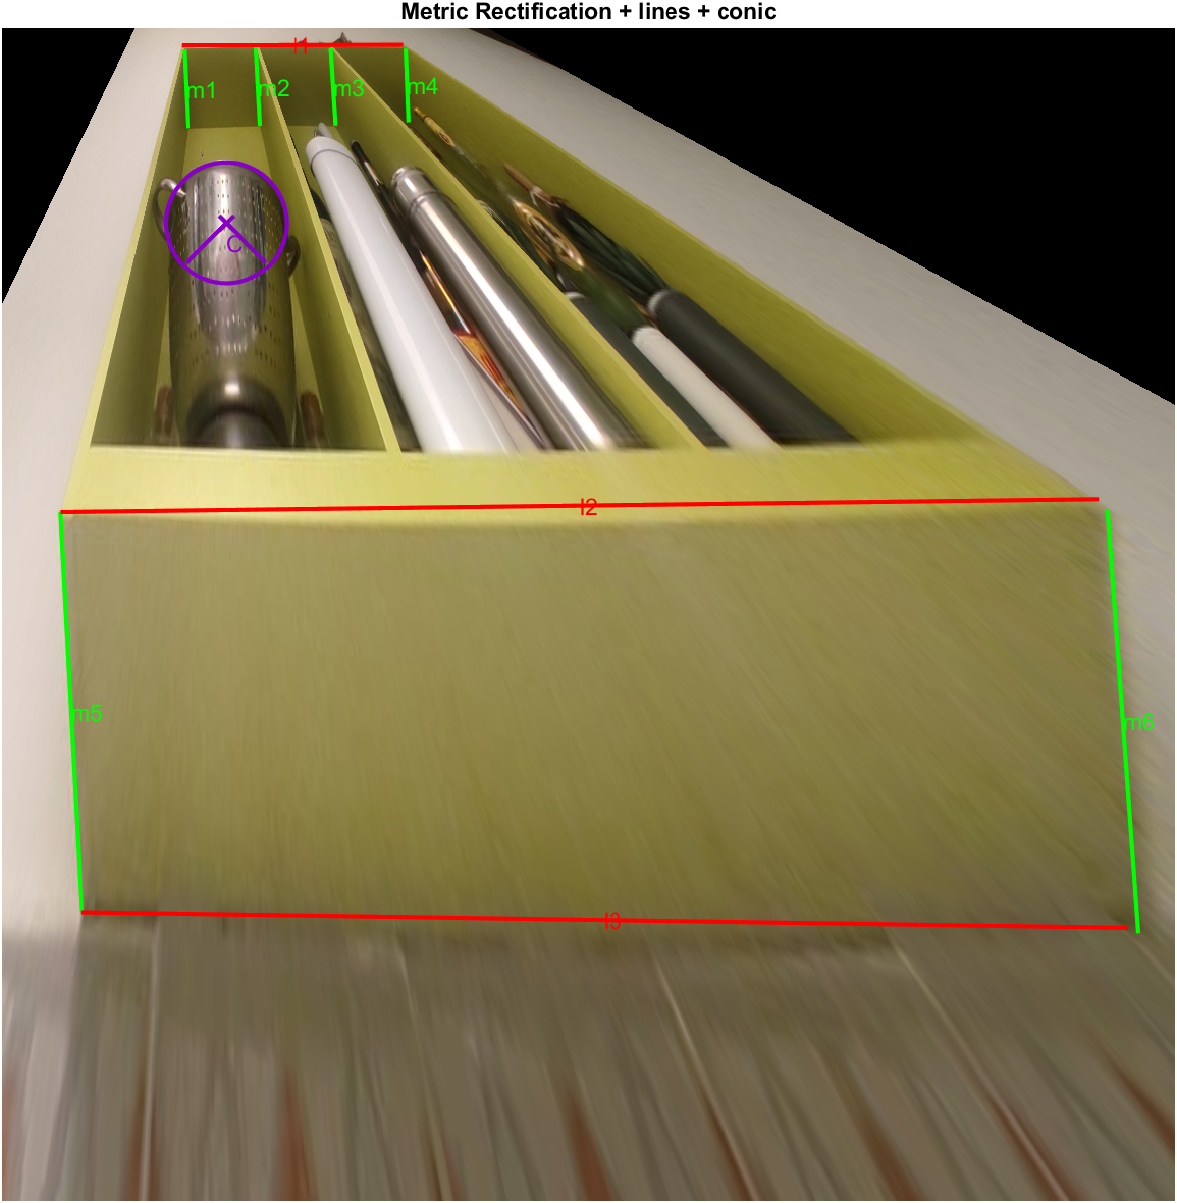
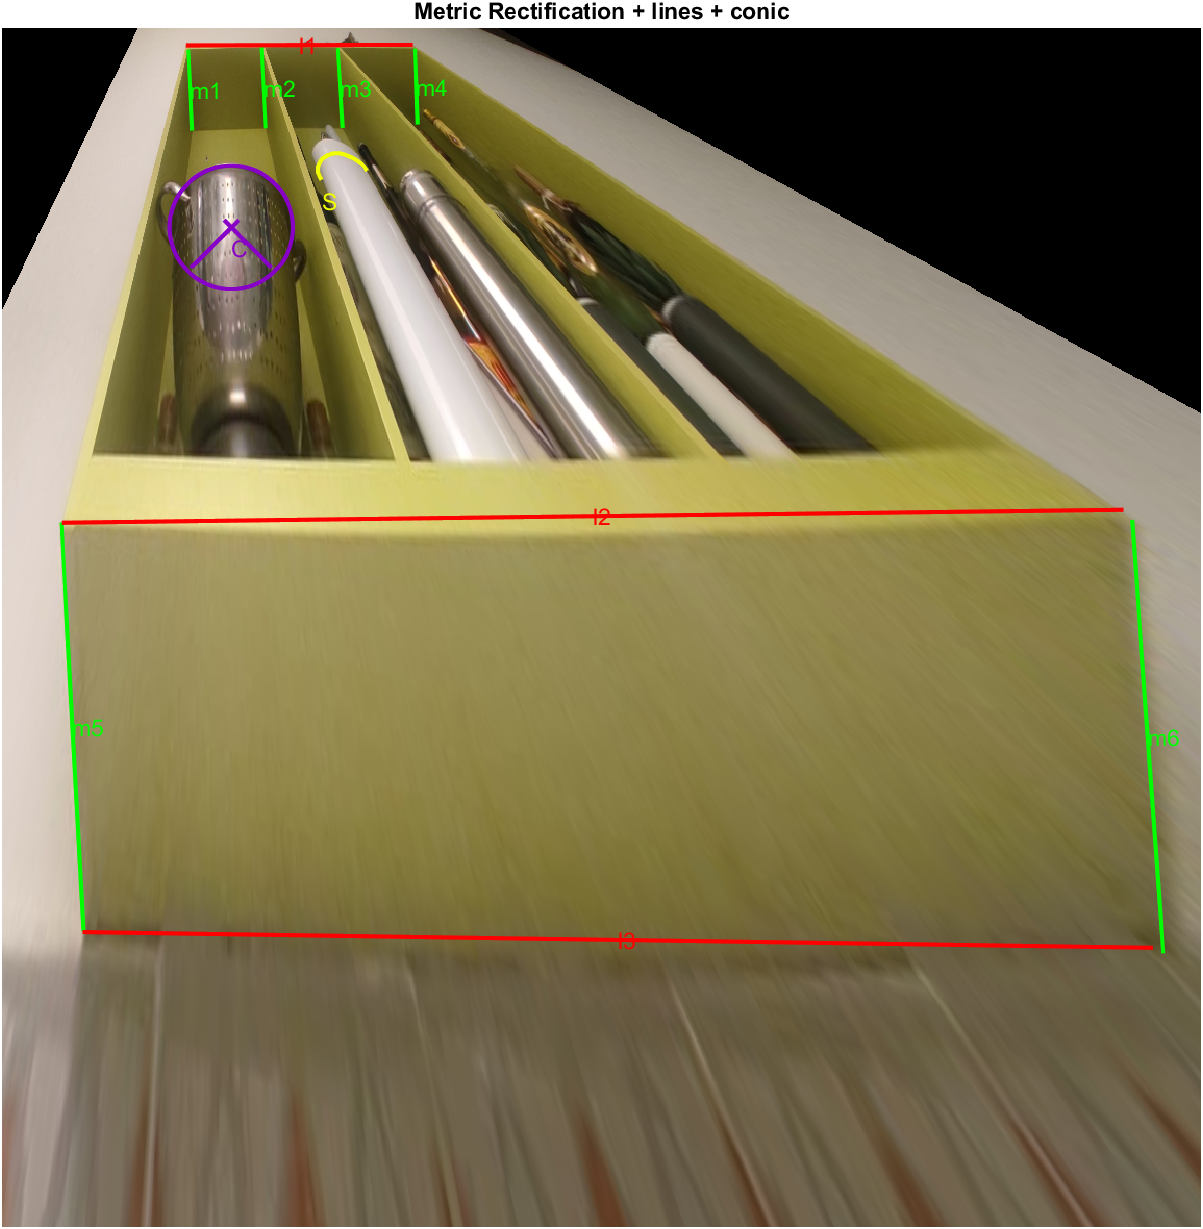
Add S_points in the right place

diff --git a/Code/2.2-Metric_Rectification/MetricRectification.m b/Code/2.2-Metric_Rectification/MetricRectification.m
@@ -16,6 +16,9 @@ load('../2.1-Vanishing_Line_Extraction/VanishingLineHorizontalPlane.mat');
 %% Load the extracted conic
 load('../1-FeatureExtraction/ConicExtraction/ExtractedConic.mat');
 
+%% Load The curve S points
+load('../2.0-ManualLineExtraction/S_points.mat');
+
 %%%%%%%%%%%%%%%%%%%%%%%%%%%%%%%%%%%%%%%%%%%%%%%%%%%%%%%%%%%%%%%%%%%%%%%%%%%%
 %                           Affine Rectification                           %
 %%%%%%%%%%%%%%%%%%%%%%%%%%%%%%%%%%%%%%%%%%%%%%%%%%%%%%%%%%%%%%%%%%%%%%%%%%%%
@@ -63,6 +66,9 @@ C_aff_par = paramsFromHomogenousConic(C_aff);
 
 %% Compute the conic errors after the affine rectification
 C_aff_errors = computeConicErrors(C_aff, im_warped);
+
+%% Compute the S points in the affine rectified image
+S_points_aff = warpPoint(S_points_image, H_aff);
 
 %%%%%%%%%%%%%%%%%%%%%%%%%%%%%%%%%%%%%%%%%%%%%%%%%%%%%%%%%%%%%%%%%%%%%%%%%%%%
 %                           Metric rectification                           %
@@ -127,6 +133,9 @@ l_lines_metric = warpLine(l_lines, H_metric_inv);
 l_lines_metric = l_lines_metric ./ l_lines_metric(3, :);
 l_points_metric = warpPoint(l_points, H_metric);
 
+%% Compute the S points in the metric rectified image
+S_points_metric = warpPoint(S_points_image, H_metric);
+
 %% Sanity check: othogonality of rectified lines
 assert(all(norm(m_lines_metric(1:2, :)' * l_lines_metric(1:2, :)) < 1e-3));
 disp('Sanity Check [Metric Rectification] - The rectified lines are orthogonal: ✅');
@@ -162,6 +171,7 @@ disp(['Back Plate Depth: ' num2str(backPlateDepth)]);
 %%%%%%%%%%%%%%%%%%%%%%%%%%%%%%%%%%%%%%%%%%%%%%%%%%%%%%%%%%%%%%%%%%%%%%%%%%%%
 vanishingColor = "#0085E4";
 C_color = "#8800C8";
+S_color = "#F2FF00";
 
 figure;
 figure;
@@ -183,6 +193,8 @@ plotLines(m_points, 'g', 'm', 2);
 plotLines(l_points, 'r', 'l', 2);
 contour(conicErrors, [0, 0], 'Color', C_color, 'LineWidth', 2);
 plotConicParams(center, axes, angle, C_color);
+plot(S_points_image(1, :), S_points_image(2, :), 'Color', S_color, 'LineWidth', 2);
+text(S_points_image(1, 1), S_points_image(2, 1) + 20, 'S', 'Color', S_color, 'FontSize', 11);
 
 % plot the line at infinity
 xs = 1:size(im, 2);
@@ -198,6 +210,8 @@ plotLines(m_points_aff, 'g', 'm', 2);
 plotLines(l_points_aff, 'r', 'l', 2);
 contour(C_aff_errors, [0, 0], 'Color', C_color, 'LineWidth', 2);
 plotConicParams(center_aff, axes_aff, angle_aff, C_color);
+plot(S_points_aff(1, :), S_points_aff(2, :), 'Color', S_color, 'LineWidth', 2);
+text(S_points_aff(1, 1), S_points_aff(2, 1) + 20, 'S', 'Color', S_color, 'FontSize', 11);
 title('Affine Rectification + lines + conic');
 
 figure;
@@ -207,12 +221,14 @@ plotLines(m_points_metric, 'g', 'm', 2);
 plotLines(l_points_metric, 'r', 'l', 2);
 contour(C_metric_errors, [0, 0], 'Color', C_color, 'LineWidth', 2);
 plotConicParams(center_metric, axes_metric, angle_metric, C_color);
+plot(S_points_metric(1, :), S_points_metric(2, :), 'Color', S_color, 'LineWidth', 2);
+text(S_points_metric(1, 1), S_points_metric(2, 1) + 20, 'S', 'Color', S_color, 'FontSize', 11);
 title('Metric Rectification + lines + conic');
 
 
 %% Save the matric rectification homography
 % H_metric = H_metric/l1_legnth;
-save('./H_metric.mat', 'H_metric', 'l1_length', "l2_length", 'l_points_metric', 'm_points_metric', 'depth_m', 'backPlateDepth');
+save('./H_metric.mat', 'H_metric', 'l1_length', "l2_length", 'l_points_metric', 'm_points_metric', 'depth_m', 'backPlateDepth', 'S_points_metric');
 
 
 %% Pick 12 points on the curve S

diff --git a/Code/2.5-2.6-Curve_S_and_Camera_Localization/Localization.m b/Code/2.5-2.6-Curve_S_and_Camera_Localization/Localization.m
@@ -79,7 +79,7 @@ plotCamera('Location', [0, 0, -0.2], 'Orientation', eye(3), 'Size', 0.1, 'Color'
 plot3(world_points(1, :), world_points(2, :), world_points(3, :), 'k.', 'MarkerSize', 20);
 
 %% Plot the S curve
-load('../2.5-2.6-Curve_S_and_Camera_Localization/S_points.mat');
+load('../2.0-ManualLineExtraction/S_points.mat');
 S_points = S_points_image;
 S_points = [S_points; ones(1, size(S_points, 2))];
 S_points = H_metric * S_points;

diff --git a/Code/2.5-2.6-Curve_S_and_Camera_Localization/S_coordinates.m b/Code/2.5-2.6-Curve_S_and_Camera_Localization/S_coordinates.m
@@ -23,7 +23,7 @@ world_l_points(:, 3:6) = world_l_points(:, 3:6) * l1_length/l2_length;
 origin = world_l_points(:, 3);
 
 %% Plot the S curve
-load('../2.5-2.6-Curve_S_and_Camera_Localization/S_points.mat');
+load('../2.0-ManualLineExtraction/S_points.mat');
 S_points = S_points_image;
 S_points = [S_points; ones(1, size(S_points, 2))];
 S_points = H_metric * S_points;
